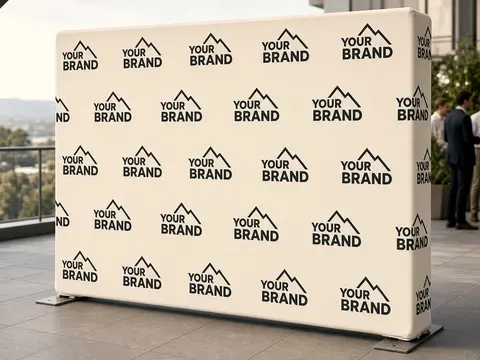
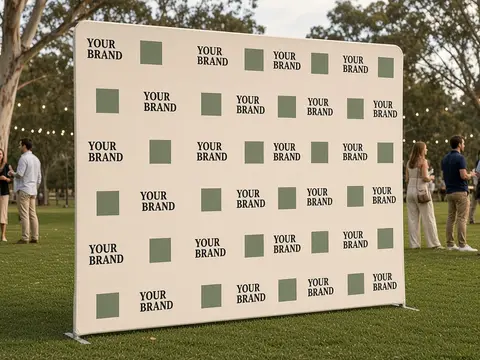
Media wall main image: new 03 photo (park lawn), square crop now used in square slots

diff --git a/src/data/mockups.ts b/src/data/mockups.ts
@@ -106,7 +106,7 @@ export const MOCKUPS = {
   },
   v4Corflute: { slug: "v4-corflute", title: "Corflute sign", alt: "Large cream corflute sign reading Your Brand cable-tied to a wire fence at a park" },
   v4PullUp: { slug: "v4-pull-up", title: "Pull up banner", alt: "Cream and green pull up banner reading Your Brand in a bright office foyer with city views" },
-  v4MediaWall: { slug: "v4-media-wall", title: "Media wall", alt: "Stretched fabric media wall printed with a repeating Your Brand logo on a rooftop terrace, with guests in the background", noSquare: true },
+  v4MediaWall: { slug: "v4-media-wall", title: "Media wall", alt: "Stretched fabric media wall printed with Your Brand and green squares in a repeating pattern, standing on a park lawn with guests and festoon lights behind" },
   v4AFrames: { slug: "v4-aframes", title: "A-frames", alt: "Two A-frame signs reading Your Brand, one black and one white, on a café terrace", noSquare: true },
   v4Gazebo: { slug: "v4-gazebo", title: "3 × 3m gazebo", alt: "Black 3 by 3 metre pop up gazebo with a cream valance reading Your Brand, over a fresh produce stall at an outdoor market" },
   v4Flags: { slug: "v4-flags", title: "Feather flags", alt: "Two feather flags reading Your Brand on a grassy park beside gum trees" },
